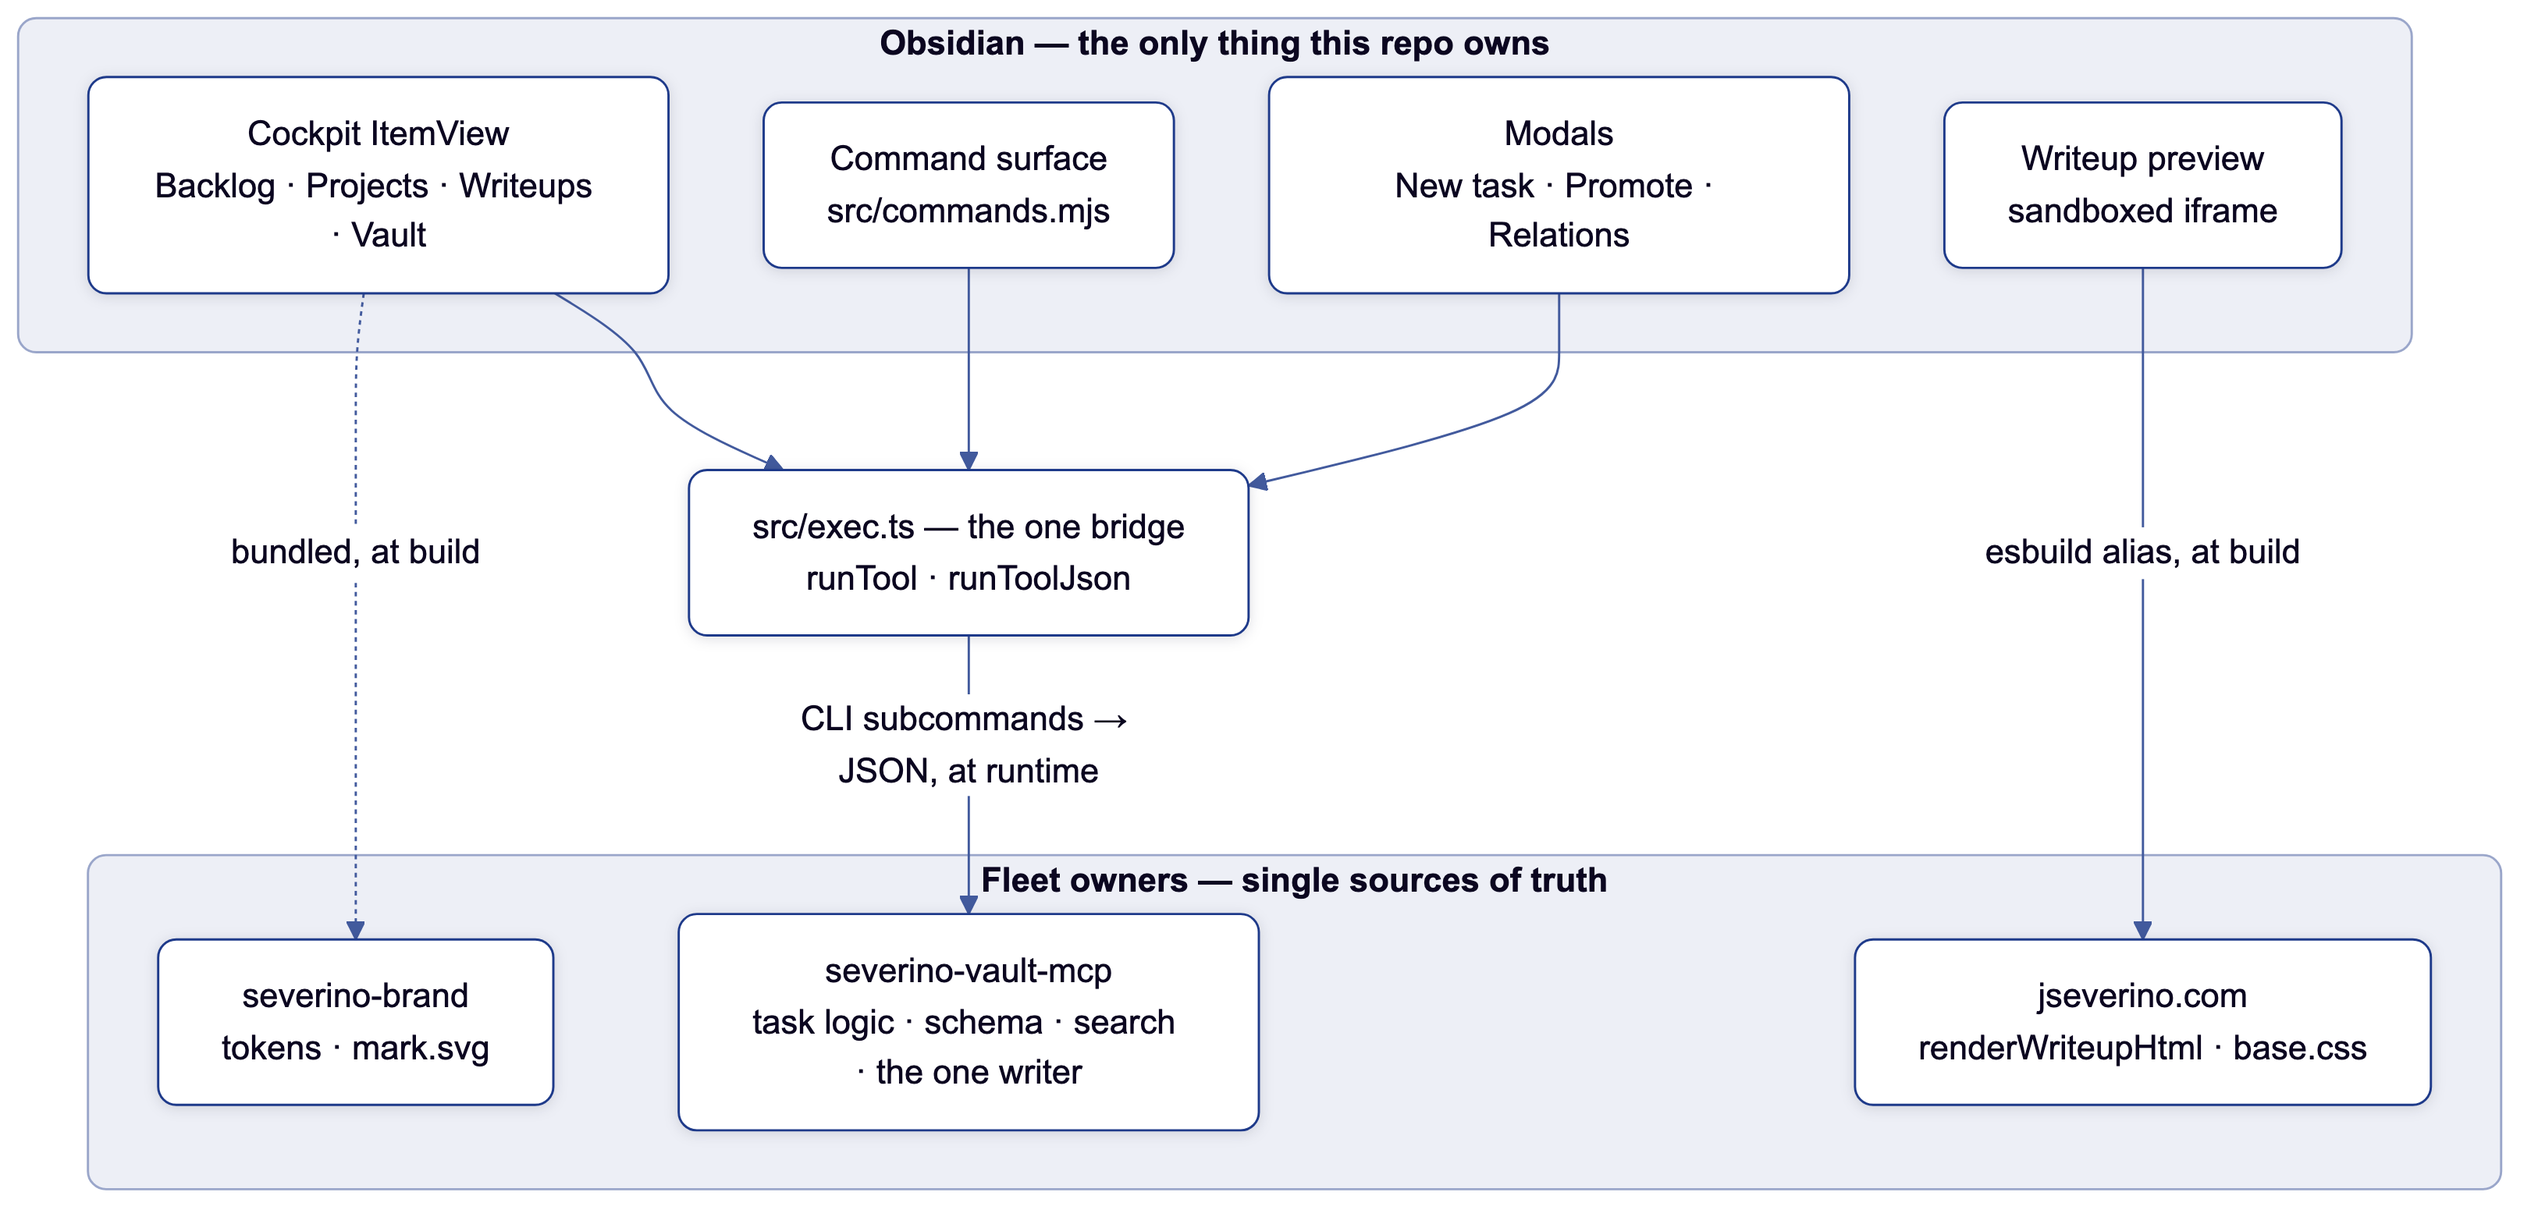
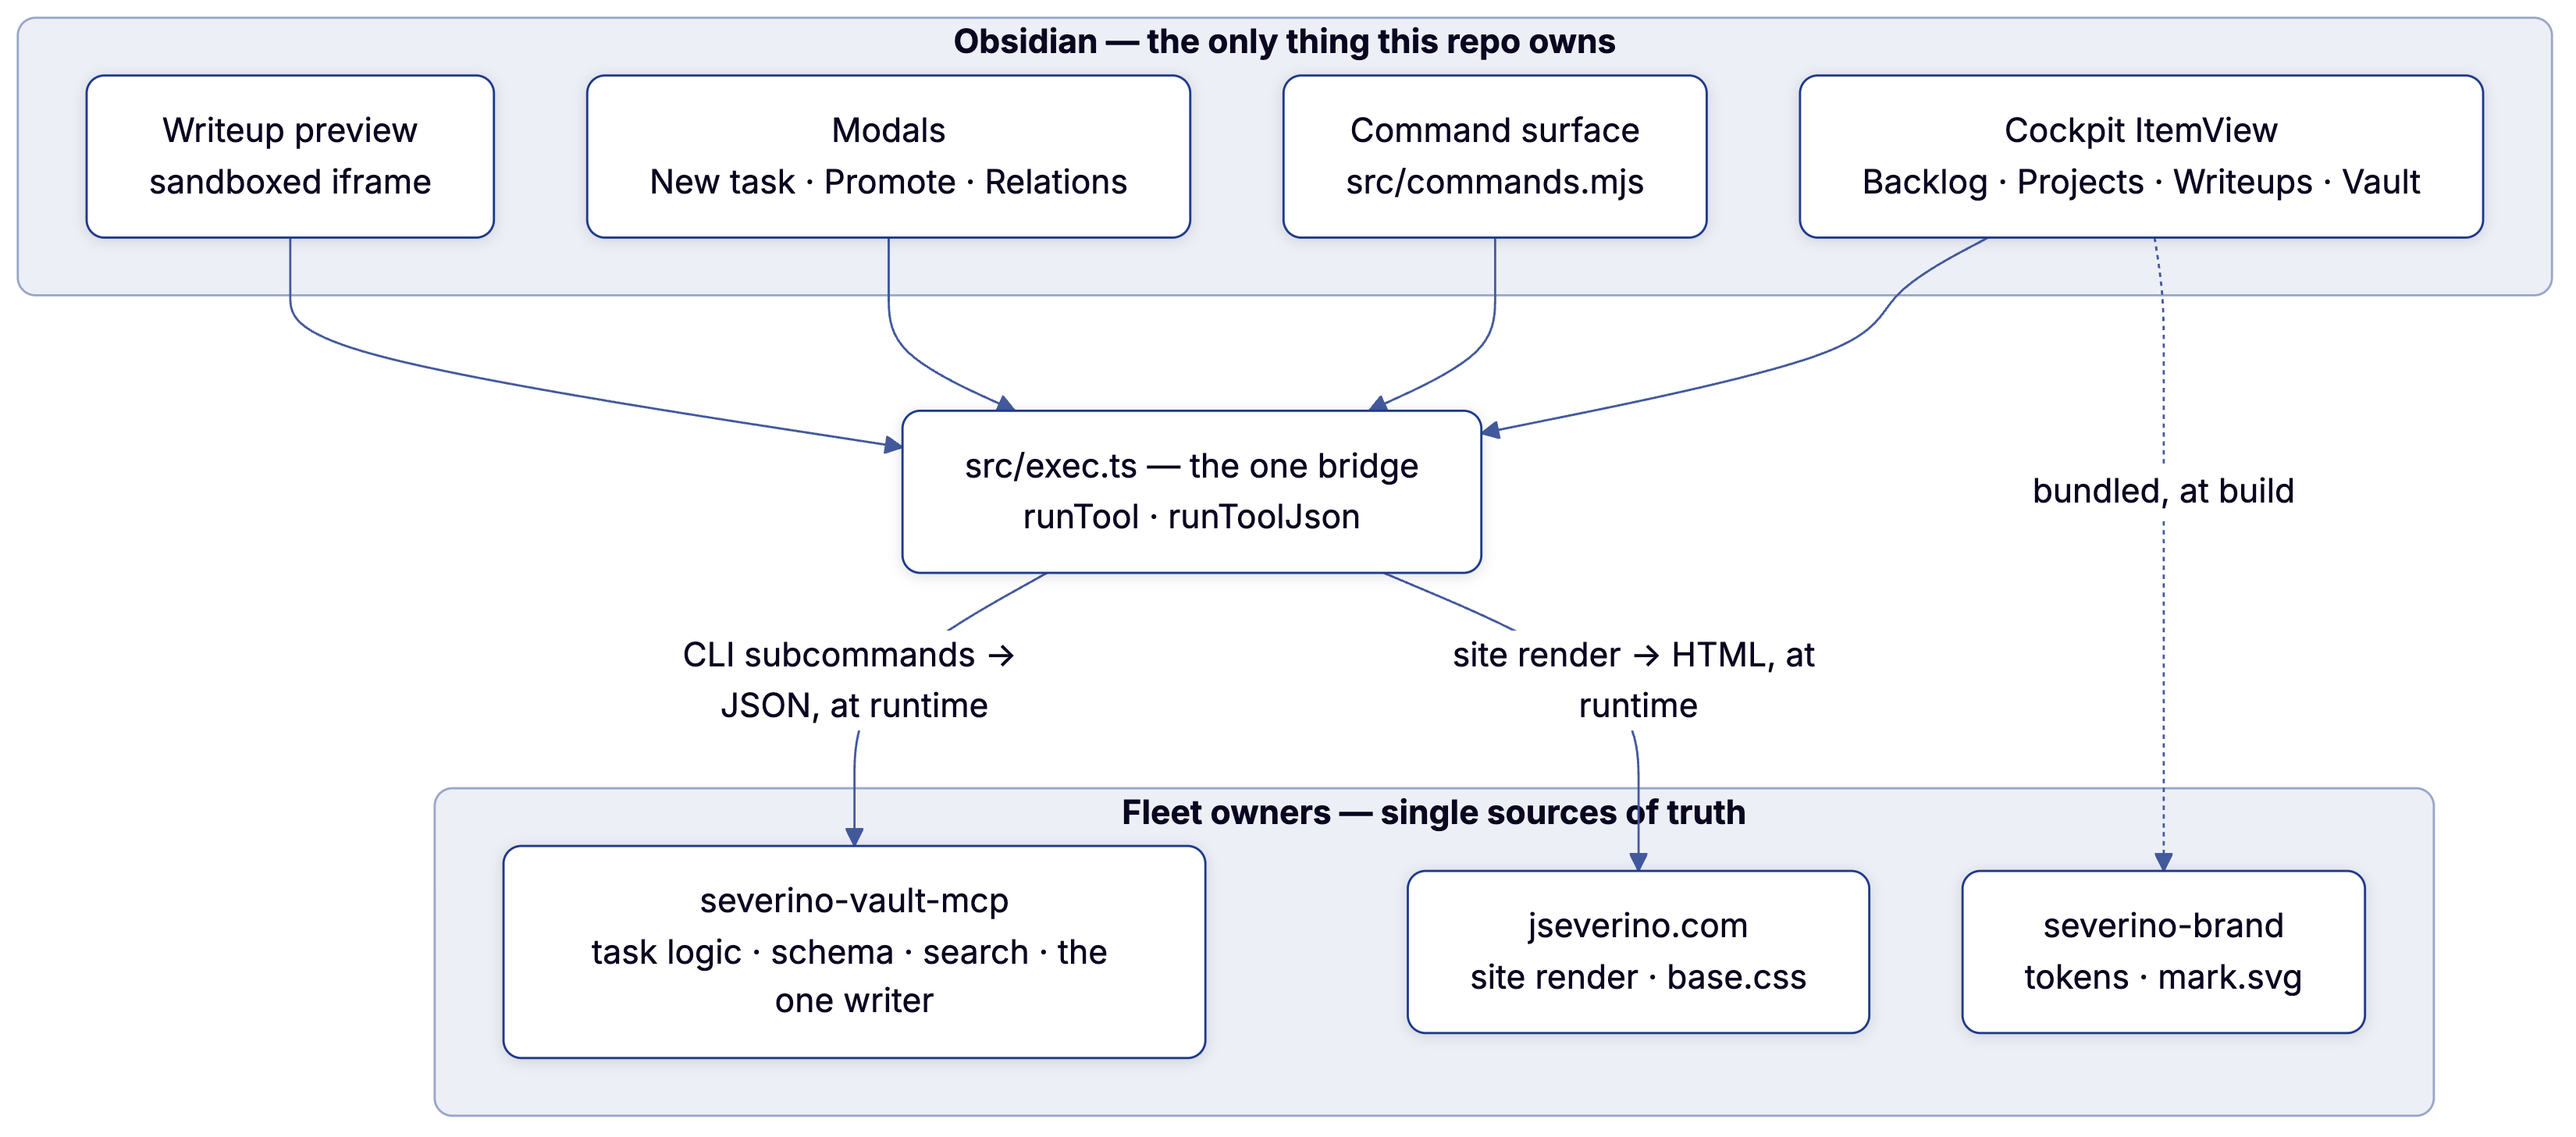
fix: preview renders through site render; the build no longer bundles the renderer

diff --git a/src/render.ts b/src/render.ts
@@ -1,12 +1,10 @@
-// The renderer glue. The plugin owns NONE of the markdown→HTML logic or the
-// styling: it calls the site's own renderWriteupHtml, injects the site's own
-// styles via previewStyles (base.css + brand vars + font — the "load BOTH"
-// contract owned by the site), and reproduces the article page STRUCTURE that
-// portfolio/[slug]/index.astro emits so those styles actually apply. All inputs
-// come from the real owners via esbuild aliases (see esbuild.config.mjs).
+// The renderer glue. The plugin owns none of the markdown-to-HTML logic or the
+// styling: the body comes from the site's own `site render`, the styles from
+// the site's previewStyles (base.css, brand vars, font), and this file
+// reproduces the article page structure portfolio/[slug]/index.astro emits so
+// those styles apply. Styles arrive via esbuild aliases (esbuild.config.mjs).
 //
-import { renderWriteupHtml } from '@site/markdown';
-import { parseFrontmatter } from '@site/frontmatter';
+import { runToolJson } from './exec';
 import { previewStyles } from '@site/web-styles';
 import siteBaseCss from '@site/base-css';
 import interFontUrl from '@site/inter-font';
@@ -20,6 +18,31 @@ export interface RenderInput {
   coverAlt?: string;
   technologies?: string[];
   resolveAsset: (rel: string) => string | null;
+  /** Renders the markdown body; defaults to the site CLI. */
+  renderBody?: (markdown: string) => Promise<string>;
+  /** Vault root the site CLI reads from; required by the default renderBody. */
+  vaultRoot?: string;
+}
+
+interface SiteRender {
+  ok?: boolean;
+  html?: string;
+  error?: { message?: string };
+}
+
+// The site renders the unsaved buffer (`-` reads stdin), so the preview tracks
+// live edits without the plugin bundling the renderer.
+export function siteRenderBody(vaultRoot: string): (markdown: string) => Promise<string> {
+  return async (markdown) => {
+    const res = await runToolJson<SiteRender>('site', ['render', '-', '--json'], {
+      cwd: vaultRoot,
+      env: { VAULT_DIR: vaultRoot },
+      input: markdown,
+    });
+    if (!res.ok || !res.data) throw new Error(res.error ?? 'site render failed to run');
+    if (!res.data.ok || typeof res.data.html !== 'string') throw new Error(res.data.error?.message ?? 'site render failed');
+    return res.data.html;
+  };
 }
 
 const escapeHtml = (s: string): string =>
@@ -43,24 +66,27 @@ function formatDate(raw?: string): string {
 const titleCase = (slug: string): string =>
   slug.replace(/[-_]/g, ' ').replace(/\b\w/g, (c) => c.toUpperCase());
 
-// Point site asset URLs (/assets/writeups/<slug>/…) back at local vault files.
+// Point asset URLs back at local vault files: the site form
+// (/assets/writeups/<slug>/...) and the folder-relative form (./images/...)
+// the raw vault markdown renders with.
 function rewriteAssets(html: string, slug: string, resolve: (rel: string) => string | null): string {
   const base = `/assets/writeups/${slug}/`;
-  return html.replace(
-    new RegExp(`((?:src|href)=")${escapeRegExp(base)}([^"]+)(")`, 'g'),
-    (whole, pre: string, rel: string, post: string) => {
-      const local = resolve(rel);
-      return local ? `${pre}${local}${post}` : whole;
-    },
-  );
+  const local = (whole: string, pre: string, rel: string, post: string): string => {
+    const found = resolve(rel);
+    return found ? `${pre}${found}${post}` : whole;
+  };
+  return html
+    .replace(new RegExp(`((?:src|href)=")${escapeRegExp(base)}([^"]+)(")`, 'g'), local)
+    .replace(/((?:src|href)=")(?:\.\/)?((?![a-z][a-z0-9+.-]*:|\/|#)[^"]+)(")/gi, local);
 }
 
-export function buildPreviewDoc(input: RenderInput): string {
+export async function buildPreviewDoc(input: RenderInput): Promise<string> {
   const { markdown, slug, title, date, coverImage, coverAlt, technologies, resolveAsset } = input;
+  const renderBody = input.renderBody ?? siteRenderBody(input.vaultRoot ?? '');
 
   let body: string;
   try {
-    body = renderWriteupHtml(parseFrontmatter(markdown).content, slug);
+    body = await renderBody(markdown);
   } catch (err) {
     body = `<pre class="svo-error">Preview failed to render:\n${escapeHtml(String(err))}</pre>`;
   }

diff --git a/src/exec.ts b/src/exec.ts
@@ -1,5 +1,4 @@
 import { execFile } from 'child_process';
-import { promisify } from 'util';
 
 // The plugin's bridge to the rest of the system: it invokes the same CLIs the
 // `site` TUI and AI sessions use (severino-vault-mcp, site, brand, diagram) and
@@ -8,8 +7,6 @@ import { promisify } from 'util';
 // Obsidian is GUI-launched, so it inherits a minimal PATH — we resolve tools to
 // ~/.local/bin explicitly and pass an augmented PATH so the bash CLIs can reach
 // their own dependencies.
-const pExecFile = promisify(execFile);
-
 const HOME = process.env.HOME ?? '';
 const BIN = `${HOME}/.local/bin`;
 const PATH = [BIN, '/opt/homebrew/bin', '/usr/local/bin', '/usr/bin', '/bin', process.env.PATH ?? '']
@@ -26,21 +23,28 @@ export interface RunOpts {
   cwd: string;
   /** Extra env vars (e.g. SVMC_VAULT_PATH for the MCP). */
   env?: Record<string, string>;
+  /** Written to the tool's stdin, then closed. */
+  input?: string;
 }
 
-export async function runTool(bin: string, args: string[], opts: RunOpts): Promise<ToolResult> {
-  try {
-    const { stdout, stderr } = await pExecFile(`${BIN}/${bin}`, args, {
-      cwd: opts.cwd,
-      env: { ...process.env, PATH, HOME, ...(opts.env ?? {}) },
-      timeout: 120_000,
-      maxBuffer: 16 * 1024 * 1024,
-    });
-    return { ok: true, stdout, stderr };
-  } catch (err) {
-    const e = err as { stdout?: string; stderr?: string; message?: string };
-    return { ok: false, stdout: e.stdout ?? '', stderr: e.stderr || e.message || String(err) };
-  }
+export function runTool(bin: string, args: string[], opts: RunOpts): Promise<ToolResult> {
+  return new Promise((resolve) => {
+    const child = execFile(
+      `${BIN}/${bin}`,
+      args,
+      {
+        cwd: opts.cwd,
+        env: { ...process.env, PATH, HOME, ...(opts.env ?? {}) },
+        timeout: 120_000,
+        maxBuffer: 16 * 1024 * 1024,
+      },
+      (err, stdout, stderr) => {
+        if (err) resolve({ ok: false, stdout: stdout ?? '', stderr: stderr || err.message || String(err) });
+        else resolve({ ok: true, stdout, stderr });
+      },
+    );
+    child.stdin?.end(opts.input ?? '');
+  });
 }
 
 export async function runToolJson<T = unknown>(

diff --git a/src/preview-view.ts b/src/preview-view.ts
@@ -1,8 +1,13 @@
-import { ItemView, WorkspaceLeaf, debounce } from 'obsidian';
+import { App, FileSystemAdapter, ItemView, WorkspaceLeaf, debounce } from 'obsidian';
 import { buildPreviewDoc } from './render';
 import { getActiveWriteup, localAssetResolver } from './writeup';
 
 export const PREVIEW_VIEW_TYPE = 'severino-site-preview';
+
+const vaultRootOf = (app: App): string => {
+  const adapter = app.vault.adapter;
+  return adapter instanceof FileSystemAdapter ? adapter.getBasePath() : '';
+};
 
 // A side pane that renders the active writeup exactly as the site will, in a
 // sandboxed iframe (full style isolation — the site CSS can't leak into
@@ -86,7 +91,7 @@ export class SitePreviewView extends ItemView {
       cover_alt?: string;
       technologies?: string[];
     };
-    const html = buildPreviewDoc({
+    const html = await buildPreviewDoc({
       markdown: writeup.markdown,
       slug: writeup.slug,
       title: fm.title ?? writeup.slug,
@@ -95,6 +100,7 @@ export class SitePreviewView extends ItemView {
       coverAlt: fm.cover_alt,
       technologies: Array.isArray(fm.technologies) ? fm.technologies : [],
       resolveAsset: localAssetResolver(this.app, writeup.file),
+      vaultRoot: vaultRootOf(this.app),
     });
 
     // Nothing changed (e.g. just focusing the pane) — don't reload, or the

diff --git a/src/types/css.d.ts b/src/types/css.d.ts
@@ -3,11 +3,6 @@
 // declarations type-check whether or not the sibling jseverino.com checkout is
 // present, so CI (which checks out only this repo) type-checks the same as local.
 
-// The site's markdown → HTML writeup renderer (src/lib/markdown.ts).
-declare module '@site/markdown' {
-  export function renderWriteupHtml(markdown: string, slug: string): string;
-}
-
 // base.css as a text string (text loader), injected into the preview iframe.
 declare module '@site/base-css' {
   const css: string;

diff --git a/docs/ARCHITECTURE.md b/docs/ARCHITECTURE.md
@@ -165,7 +165,6 @@ via aliases and writes the plugin straight into the vault's
 `.obsidian/plugins/severino-obsidian/`:
 
 ```
-@site/markdown    → jseverino.com/src/lib/markdown.ts   (the renderer)
 @site/base-css    → jseverino.com/src/styles/base.css   (text loader)
 @site/brand-mark  → public/assets/brand/mark.svg        (the JS monogram)
 @site/inter-font  → the Inter woff2                      (dataurl loader)
@@ -173,6 +172,8 @@ via aliases and writes the plugin straight into the vault's
 
 So even the bundled assets are *consumed from their owner*, not copied into this
 repo. Edit `base.css` or the brand mark at the source and a rebuild picks it up.
+The writeup body is rendered at runtime instead: the preview pipes the unsaved
+buffer to `site render - --json`, the same render the site build ships.
 
 ---
 
@@ -186,7 +187,7 @@ repo. Edit `base.css` or the brand mark at the source and a rebuild picks it up.
 - **One schema.** Enum options come from `schema --json` (the same source HQ and
   the site validate against) — never a list the plugin maintains.
 - **One renderer, one identity.** The writeup preview is the site's own
-  `renderWriteupHtml` + `base.css`; the logo is the brand kit's mark.
+  `site render` + `base.css`; the logo is the brand kit's mark.
 
 The plugin is the *interface* to the system, not a part of the system's logic.
 That is the whole design, and it's what lets it grow without becoming a liability.

diff --git a/README.md b/README.md
@@ -12,7 +12,7 @@ becoming a second source of truth. The full design is in
 | Concern | Owner (single source of truth) | How the plugin uses it |
 |---|---|---|
 | task logic, schema, search, the one writer | [`severino-vault-mcp`](https://github.com/joeseverino/severino-vault-mcp) (the MCP) | shells out to its CLI subcommands |
-| markdown→HTML + the `::figure`/`::table`/`::terminal` DSL | [`jseverino.com`](https://github.com/joeseverino/jseverino.com)`/src/lib/markdown.ts` | imports `renderWriteupHtml` (esbuild alias) |
+| markdown to HTML + the `::figure`/`::table`/`::terminal` DSL | [`jseverino.com`](https://github.com/joeseverino/jseverino.com) (`site render`) | pipes the unsaved buffer to `site render - --json` |
 | brand tokens + writeup CSS + the JS mark | [`severino-brand`](https://github.com/joeseverino/severino-brand) → site `base.css` / `mark.svg` | bundled from source at build time |
 
 If a feature would re-implement an owner's piece, it's out by design.
